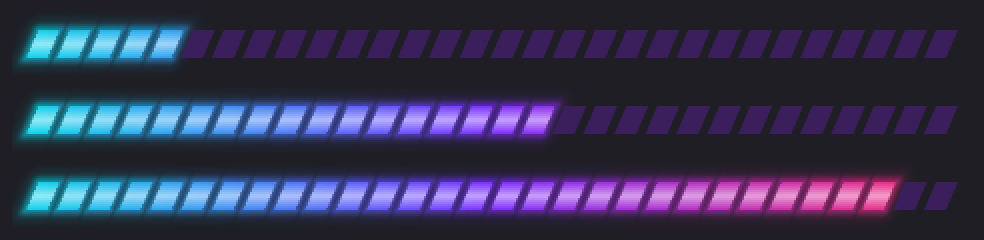
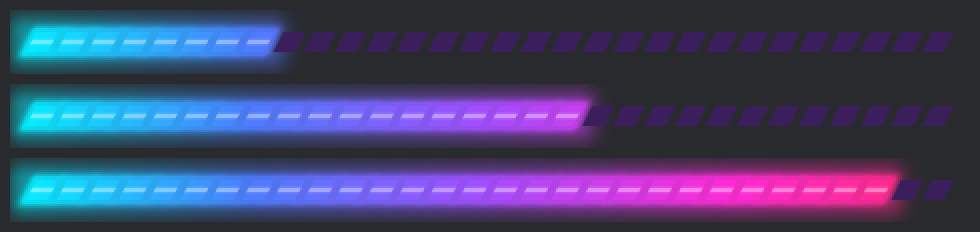
token-breakdown 0.5.1: stronger, saturated neon glow that survives one-row size

diff --git a/token-breakdown/hooks/register.tsx b/token-breakdown/hooks/register.tsx
@@ -148,19 +148,34 @@ const PX_HEIGHT = 32
 type Rgb = [number, number, number]
 const rgbOf = (c: string): Rgb => [0, 1, 2].map(i => parseInt(c.slice(1 + i * 2, 3 + i * 2), 16)) as Rgb
 
-export const neonImage = (fraction: number, columns: number) => {
+// The lit tube's own gradient: brighter and more saturated than the text
+// palette, so it reads as light, not paint.
+const TUBE = ['#00f6ff', '#4d7dff', '#a64dff', '#ff2bd6', '#ff2a6d'].map(rgbOf)
+const tube = (t: number): Rgb => {
+  const p = Math.max(0, Math.min(1, t)) * (TUBE.length - 1)
+  const i = Math.min(TUBE.length - 2, Math.floor(p))
+  const [a, z] = [TUBE[i]!, TUBE[i + 1]!]
+  return [0, 1, 2].map(k => a[k]! + (z[k]! - a[k]!) * (p - i)) as Rgb
+}
+
+export const neonImage = (fraction: number, columns: number, rows = 1) => {
   const W = columns * PX_PER_COLUMN
-  const H = PX_HEIGHT
-  const y0 = 9 // core top
-  const y1 = 23 // core bottom
-  const slant = 6 // the top edge sits this far right of the bottom
+  const H = PX_HEIGHT * rows
+  const coreHeight = rows === 1 ? 10 : 9 + 9 * rows
+  const y0 = (H - coreHeight) / 2 // core top
+  const y1 = y0 + coreHeight // core bottom
+  const mid = (y0 + y1) / 2
+  const slant = coreHeight * 0.5 // the top edge sits this far right of the bottom
   const segW = 11
-  const x0 = 7 // room for the bloom to fade before the image's edge
+  const x0 = 8 // room for the bloom to fade before the image's edge
   const count = columns
   const pitch = (W - 2 * x0 - segW - slant) / Math.max(1, count - 1)
   const lit = Math.max(0, Math.min(count, Math.round(fraction * count)))
+  const litEnd = lit > 0 ? x0 + (lit - 1) * pitch + segW + slant / 2 : 0
   const track = rgbOf(TRACK)
   const white: Rgb = [255, 255, 255]
+  const near = 3 * rows // the tight halo around each lit segment
+  const wide = 5 + 4 * rows // the bloom the whole lit tube throws
 
   // Signed distance from a pixel to segment i, in the sheared frame where
   // segments are upright rectangles: negative inside.
@@ -176,38 +191,46 @@ export const neonImage = (fraction: number, columns: number) => {
     const yc = y + 0.5
     const shear = (slant * (y1 - yc)) / (y1 - y0)
     for (let x = 0; x < W; x++) {
-      const xs = x + 0.5 - shear
-      const near = Math.round((xs - x0 - segW / 2) / pitch)
+      const xc = x + 0.5
+      const xs = xc - shear
+      const nearest = Math.round((xs - x0 - segW / 2) / pitch)
       let best = Infinity
       let index = 0
-      for (let i = near - 1; i <= near + 1; i++) {
+      for (let i = nearest - 1; i <= nearest + 1; i++) {
         if (i < 0 || i >= count) continue
         const d = dist(xs, yc, i)
         if (d < best) [best, index] = [d, i]
       }
       const cover = Math.max(0, Math.min(1, 0.5 - best))
-      const hue = rgbOf(neon(x / Math.max(1, W - 1)))
+      const hue = tube(xc / W)
 
-      // Bloom from the nearest lit segment.
+      // Light: a halo summed over the nearby lit segments, plus a soft band of
+      // bloom along the whole lit stretch of the tube.
       let glow = 0
       if (lit > 0) {
-        const nearestLit = Math.max(0, Math.min(lit - 1, near))
-        let dl = Infinity
-        for (let i = nearestLit - 1; i <= nearestLit + 1; i++) if (i >= 0 && i < lit) dl = Math.min(dl, dist(xs, yc, i))
-        if (dl > 0) glow = Math.min(0.7, 0.42 * Math.exp(-((dl / 2.6) ** 2)) + 0.16 * Math.exp(-((dl / 6) ** 2)))
+        for (let i = nearest - 2; i <= nearest + 2; i++) {
+          if (i < 0 || i >= lit) continue
+          const d = Math.max(0, dist(xs, yc, i))
+          glow += 0.55 * Math.exp(-((d / near) ** 2))
+        }
+        const dy = Math.max(0, Math.abs(yc - mid) - coreHeight / 2)
+        const dx = Math.max(0, xc - litEnd, x0 - xc)
+        glow += 0.5 * Math.exp(-((Math.hypot(dx, dy) / wide) ** 2))
+        glow = Math.min(0.92, glow)
       }
 
       let core: Rgb = track
       if (index < lit) {
-        const edge = Math.min(1, Math.abs(yc - (y0 + y1) / 2) / ((y1 - y0) / 2))
-        const heat = 0.45 + 0.55 * edge
-        core = [0, 1, 2].map(k => white[k]! + (hue[k]! - white[k]!) * heat) as Rgb
+        // A thin white-hot line through the middle, pure colour around it.
+        const edge = Math.abs(yc - mid) / (coreHeight / 2)
+        const hot = Math.max(0, 1 - edge / 0.35) * 0.55
+        core = [0, 1, 2].map(k => hue[k]! + (white[k]! - hue[k]!) * hot) as Rgb
       }
       const alpha = cover + glow * (1 - cover)
       const o = (y * W + x) * 4
       if (alpha <= 0) continue
       for (let k = 0; k < 3; k++) pixels[o + k] = Math.round((core[k]! * cover + hue[k]! * glow * (1 - cover)) / alpha)
-      pixels[o + 3] = Math.round(alpha * 255)
+      pixels[o + 3] = Math.round(Math.min(1, alpha) * 255)
     }
   }
   // toBase64 is in the runtime (see ImageSource), not yet in TypeScript's lib.

diff --git a/README.md b/README.md
@@ -50,9 +50,9 @@ This shows what `/context` shows, without having to run it. It's a framed neon H
 ```
 
 - **The frame** glows from neon cyan on the left to hot pink on the right, so the HUD stands apart from the chat. It spans the full width, with the model (`Opus 5.5`) and the reasoning effort it runs at (`◆ HIGH`) in the top-right corner.
-- **The meter** is 30 cells long. In terminals that can draw real images (**Ghostty**, **kitty**), it's a pixel-drawn neon bar: slanted segments with open gaps, a white-hot core fading to a cyan → purple → pink gradient, and a soft glow around the lit segments. Unlit segments stay dark. Everywhere else, including inside tmux, it falls back to a one-row character bar in the same gradient.
+- **The meter** is 30 cells long. In terminals that can draw real images (**Ghostty**, **kitty**), it's a pixel-drawn neon bar: slanted segments with open gaps, a thin white-hot line through vivid cyan → violet → hot-pink segments, and a neon glow that blooms around the lit stretch. Unlit segments stay dark. Everywhere else, including inside tmux, it falls back to a one-row character bar in the same gradient.
 
-  ![neon meter at 18%, 55% and 92%](docs/neon-meter.png)
+  ![neon meter at 26%, 60% and 92%](docs/neon-meter.png)
 
 - **The figures** sit beside the meter. The percentage turns yellow at 60% and pink at 85%, where a `⚠ COMPACT SOON` flag also appears. `▲` shows the tokens added this turn.
 - **The readout** gives each category's size: system prompt, tools, MCP, memory, skills, messages and free space.
